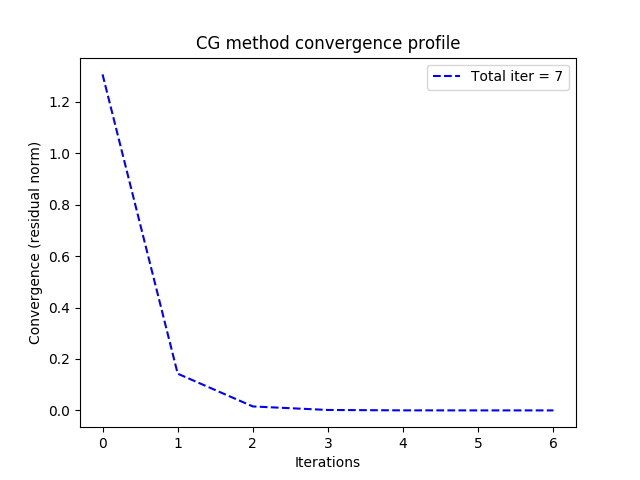
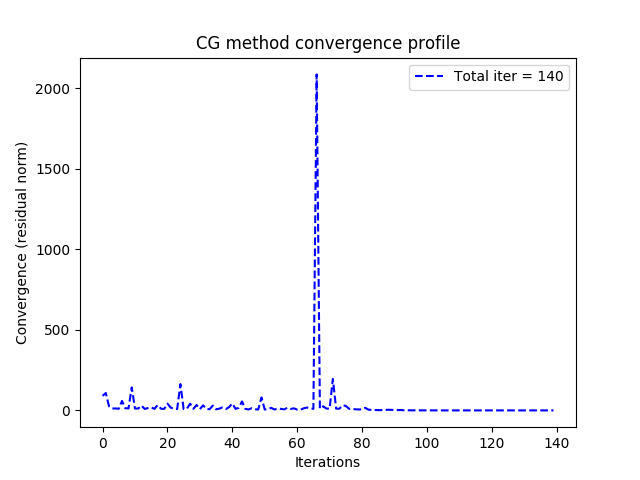
Working on generation of good test matrices

diff --git a/scripts/ConjugateGradients/test_matrices.py b/scripts/ConjugateGradients/test_matrices.py
@@ -1,0 +1,68 @@
+"""Test matrices"""
+from numpy.ma import ceil
+from numpy.ma import floor
+
+import numpy as np
+
+
+class TestMatrices:
+    """Test matrices generating methods"""
+
+    @staticmethod
+    def get_diagonal_matrix(size: int = 50) -> np.matrix:
+        """Return size by size test diagonal matrix."""
+        diagonal = np.diagflat([1] * size)
+        return np.matrix(diagonal)
+
+    @staticmethod
+    def get_test_matrix_three_diagonal(size: int = 50) -> np.matrix:
+        """Return size by size test 3 diagonal matrix."""
+        upper_diagonal = np.diagflat([1] * (size - 1), 1)
+        lower_diagonal = np.diagflat([1] * (size - 1), -1)
+        diagonal = np.diagflat([10] * size)
+        return np.matrix(lower_diagonal + diagonal + upper_diagonal)
+
+    @staticmethod
+    def _get_quadratic_mask(size: int = 50):
+        """Return mask for quadratic test matrix"""
+        mask = np.zeros((size, size))
+        offset = int(floor(size/100))   # add extra diagonal for each 100elements grown size
+        for ind in range(size):
+            mask[ind, ind] = 1
+            mask[ind, int(ceil(ind/2))] = 1
+            mask[int(ceil(ind/2)), ind] = 1
+            if ind < int(size/2):
+                mask[int(size/2) + ind, ind] = 1
+                mask[ind, int(size/2) + ind] = 1
+            for add in range(offset):
+                # will add extra diagonals
+                add += 1
+                if ind < size - add:
+                    mask[ind, ind + add] = 1
+                if ind >= add:
+                    mask[ind, ind - add] = 1
+        for splitter in range(int(np.sqrt(size))):
+            matrix_splitter = ceil((pow(2, splitter + 1)))
+            split_value = size - int(size/matrix_splitter)
+            for ind in range(split_value, size):
+                mask[ind, split_value] = 1
+                mask[split_value, ind] = 1
+        return mask
+
+    @classmethod
+    def get_random_test_matrix(cls, size: int = 50, distribution: str = 'quadratic') -> np.matrix:
+        """Return positively defined matrix used for testing purposes.
+
+        Matrix will be positively define if its eigenvalues are positive, to achieve this it can be stated that:
+        A = Q'DQ, where Q is random matrix, D diagonal matrix with positive elements on its diagonal.
+        """
+        rand_matrix = np.matrix(np.random.rand(size, size))    # pylint: disable=no-member
+        # lets make it diagonally dominant:
+        d_matrix = np.diagflat([1] * size)
+        q_matrix = rand_matrix.T * d_matrix * rand_matrix
+        # log used to reduce growth of values when size gets greater
+        q_matrix = q_matrix / np.log(q_matrix.size)     # pylint: disable=no-member
+        if distribution == 'quadratic':
+            return np.multiply(q_matrix, cls._get_quadratic_mask(size))
+        else:
+            raise NotImplementedError

diff --git a/scripts/ConjugateGradients/utils.py b/scripts/ConjugateGradients/utils.py
@@ -3,9 +3,10 @@
 from scripts.ConjugateGradients.Solvers.CG.cg_solver import ConjugateGradientSolver
 from scripts.ConjugateGradients.Solvers.PCG.pcg_solver import PreConditionedConjugateGradientSolver
 from scripts.ConjugateGradients.Solvers.common import IterativeSolver
-from random import uniform
 
 import numpy as np
+import matplotlib
+import matplotlib.pyplot as plt
 
 
 def get_solver(name: str = None) -> IterativeSolver:
@@ -17,25 +18,12 @@ def get_solver(name: str = None) -> IterativeSolver:
     raise NotImplementedError('Provided name for solver is wrong.')
 
 
-def get_test_matrix_three_diagonal(size: int = 50) -> np.matrix:
-    """Return size by size test 3 diagonal matrix."""
-    upper_diagonal = np.diagflat([1] * (size - 1), 1)
-    lower_diagonal = np.diagflat([1] * (size - 1), -1)
-    diagonal = np.diagflat([10 for x in range(size)])
-    return np.matrix(lower_diagonal + diagonal + upper_diagonal)
-
-
-def get_test_random_matrix_multi_diagonal(size: int = 50) -> np.matrix:
-    """Return size by size random test 5 diagonal matrix."""
-    upper_diagonal = np.diagflat([1] * (size - 1), 1)
-    lower_diagonal = np.diagflat([1] * (size - 1), -1)
-    diagonal = np.diagflat([10 for x in range(size)])
-    up_rand_diag = np.diagflat([uniform(0, 1)] * (size - 30), 30)
-    low_rand_diag = np.diagflat([uniform(0, 1)] * (size - 30), -30)
-    return np.matrix(low_rand_diag + lower_diagonal + diagonal + upper_diagonal + up_rand_diag)
-
-
-def get_test_matrix_diagonal(size: int = 50) -> np.matrix:
-    """Return size by size test diagonal matrix."""
-    diagonal = np.diagflat([10 for x in range(size)])
-    return np.matrix(diagonal)
+def view_matrix(mat: np.matrix) -> None:
+    """Print matrix graphical representation."""
+    masked = np.ma.masked_where(mat == -1, mat)
+    cmap = matplotlib.cm.viridis    # pylint: disable=no-member
+    cmap.set_under(color='white')
+    plt.imshow(masked, interpolation='nearest', cmap=cmap, vmin=0.0000001)
+    plt.colorbar()
+    plt.title('Matrix')
+    plt.show()

diff --git a/scripts/ConjugateGradients/Solvers/common.py b/scripts/ConjugateGradients/Solvers/common.py
@@ -58,7 +58,7 @@ class IterativeSolver(metaclass=ABCMeta):
         """Show plot with multiple convergence profiles."""
         _to_print = []
         _legend = []
-        plot_lines = ['--', '*', '*', '^']
+        plot_lines = ['-', '--', '*', '^']
         plot_colors = ['b', 'r', 'g', 'y']
         for ind, solver in enumerate(args):
             _y = solver.get_convergence_profile()
@@ -68,14 +68,13 @@ class IterativeSolver(metaclass=ABCMeta):
             except IndexError:
                 line_color = ''
             _to_print.append((_x, _y, line_color))
-            _legend.append(solver.name + ' : iters =' + str(solver.finished_iter))
+            _legend.append('{} iters = {}'.format(solver.name, solver.finished_iter))
         plt.title('Convergence profiles comparison')
         plt.ylabel('Convergence (residual norm)')
         plt.xlabel('Iterations')
         plt.plot(*[item for sublist in _to_print for item in sublist])
         plt.legend(_legend)
         plt.show()
-
 
     @abstractmethod
     def solve(self) -> Tuple[np.matrix, int]:

diff --git a/scripts/ConjugateGradients/demo.py b/scripts/ConjugateGradients/demo.py
@@ -1,7 +1,8 @@
 """Reference script for implementation of Conjugate Gradient method."""
 
 from random import uniform
-from scripts.ConjugateGradients.utils import get_test_random_matrix_multi_diagonal, get_solver
+from scripts.ConjugateGradients.test_matrices import TestMatrices
+from scripts.ConjugateGradients.utils import get_solver
 
 import numpy as np
 
@@ -10,7 +11,7 @@ def main():
     """This is ``main`` script function - implemented only to test algorithm."""
 
     matrix_size = 100
-    a_matrix = get_test_random_matrix_multi_diagonal(matrix_size)
+    a_matrix = TestMatrices.get_random_test_matrix(matrix_size)
     x_vec = np.vstack([1 for x in range(matrix_size)])
     b_vec = np.vstack([uniform(0, 1) for x in range(matrix_size)])
     CGSolver = get_solver('CG')             # pylint: disable=invalid-name; get_solver returns Class

diff --git a/scripts/tests/Solvers/test_solvers.py b/scripts/tests/Solvers/test_solvers.py
@@ -1,7 +1,8 @@
 """Tests for ConjugateGradients solvers."""
 
 import pytest
-from scripts.ConjugateGradients.utils import get_test_matrix_diagonal, get_solver
+from scripts.ConjugateGradients.utils import get_solver
+from scripts.ConjugateGradients.test_matrices import TestMatrices
 
 import numpy as np
 
@@ -9,7 +10,7 @@ import numpy as np
 @pytest.fixture
 def test_matrix():
     matrix_size = 100
-    a_matrix = get_test_matrix_diagonal(matrix_size)
+    a_matrix = TestMatrices.get_diagonal_matrix(matrix_size) * 10
     x_vec = np.vstack([1 for x in range(matrix_size)])
     b_vec = np.vstack([0 for x in range(matrix_size)])
     return a_matrix, x_vec, b_vec

diff --git a/README.rst b/README.rst
@@ -34,16 +34,27 @@ Usage
 
 .. code:: python
 
-    from scripts.ConjugateGradients.utils import get_test_matrix_three_diagonal, get_solver
+    from random import uniform
+    from scripts.ConjugateGradients.test_matrices import TestMatrices
+    from scripts.ConjugateGradients.utils import get_solver
+
     import numpy as np
 
     matrix_size = 100
-    a_matrix = get_test_matrix_three_diagonal(matrix_size)
+    a_matrix = TestMatrices.get_random_test_matrix(matrix_size)
     x_vec = np.vstack([1 for x in range(matrix_size)])
     b_vec = np.vstack([uniform(0, 1) for x in range(matrix_size)])
-    CGSolver = get_solver('CG')
+    CGSolver = get_solver('CG')             # pylint: disable=invalid-name; get_solver returns Class
+    PCGJacobiSolver = get_solver('PCG')     # pylint: disable=invalid-name; get_solver returns Class
     cg_solver = CGSolver(a_matrix, b_vec, x_vec)
-    x_vec, residual_vec = cg_solver.solve()
+    cg_solver.solve()
+    cg_solver.show_convergence_profile()
+
+    pcg_solver = PCGJacobiSolver(a_matrix, b_vec, x_vec)
+    pcg_solver.solve()
+
+    CGSolver.compare_convergence_profiles(cg_solver, pcg_solver)
+
 
 You can view convergence profile using solver's ``show_convergence_profile`` method:
 
@@ -55,6 +66,13 @@ You can view convergence profile using solver's ``show_convergence_profile`` met
 You can compare convergence profiles of difference solvers using ``compare_convergence_profiles`` method:
 
     .. image:: doc/comparison.png
+        :height: 200 px
+        :width: 200 px
+        :scale: 50 %
+
+Matrices can be viewed using ``view_matrix`` function, which can be found in ``utils.py``
+
+    .. image:: doc/example_matrix.png
         :height: 200 px
         :width: 200 px
         :scale: 50 %
